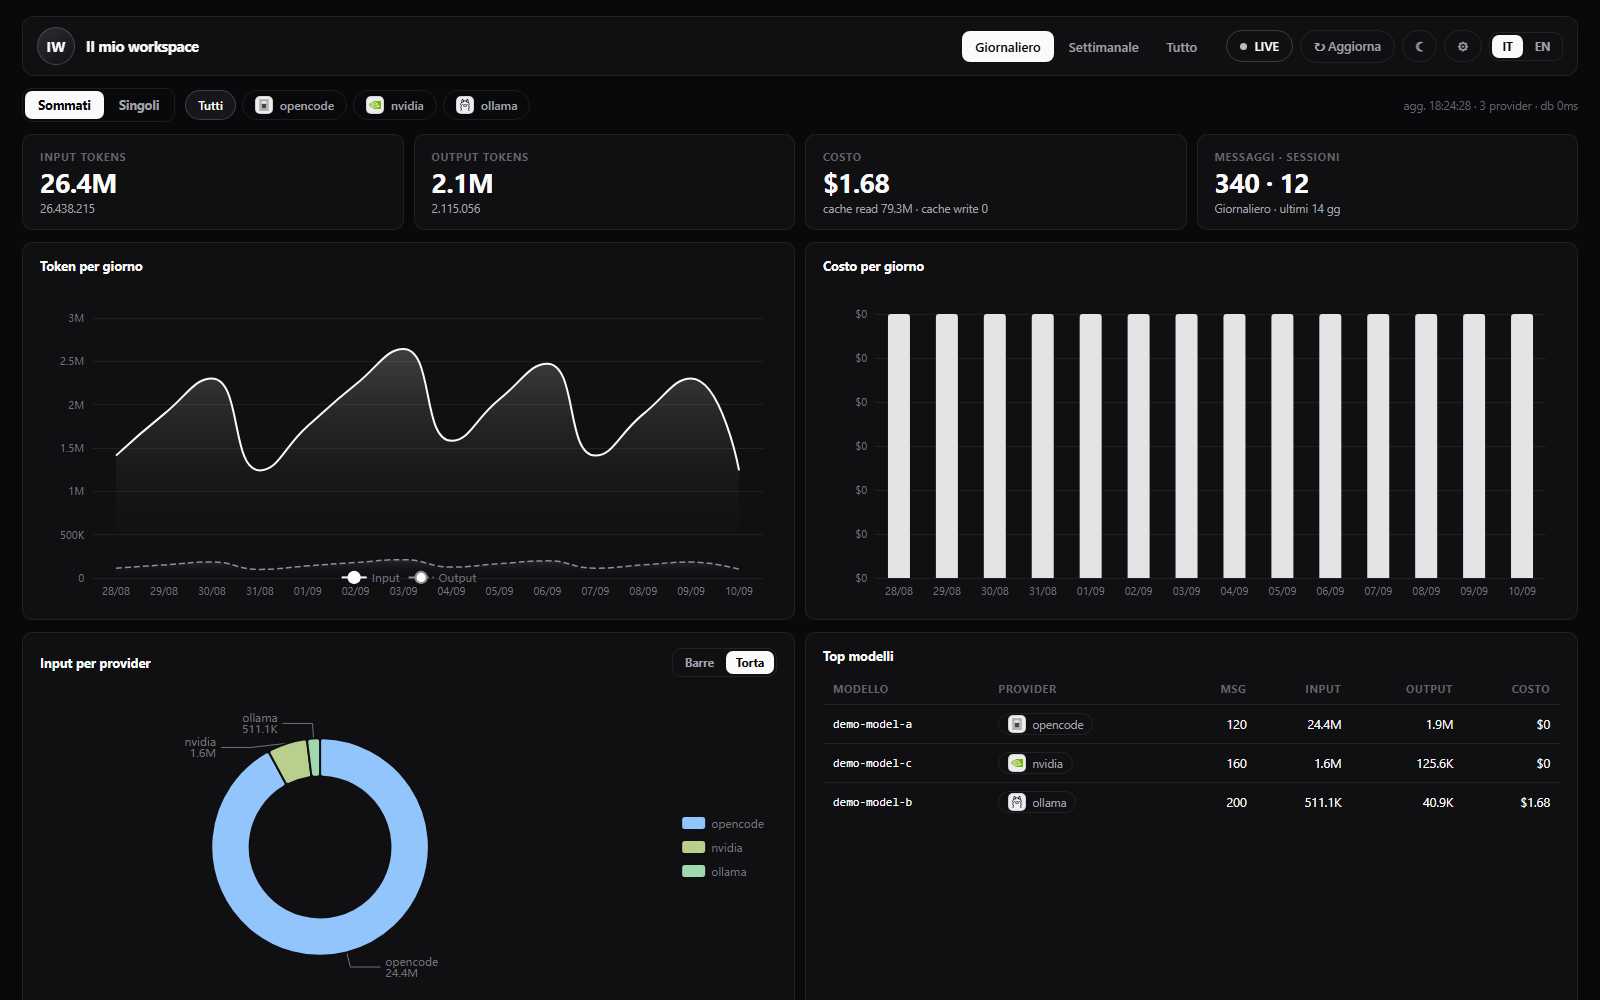
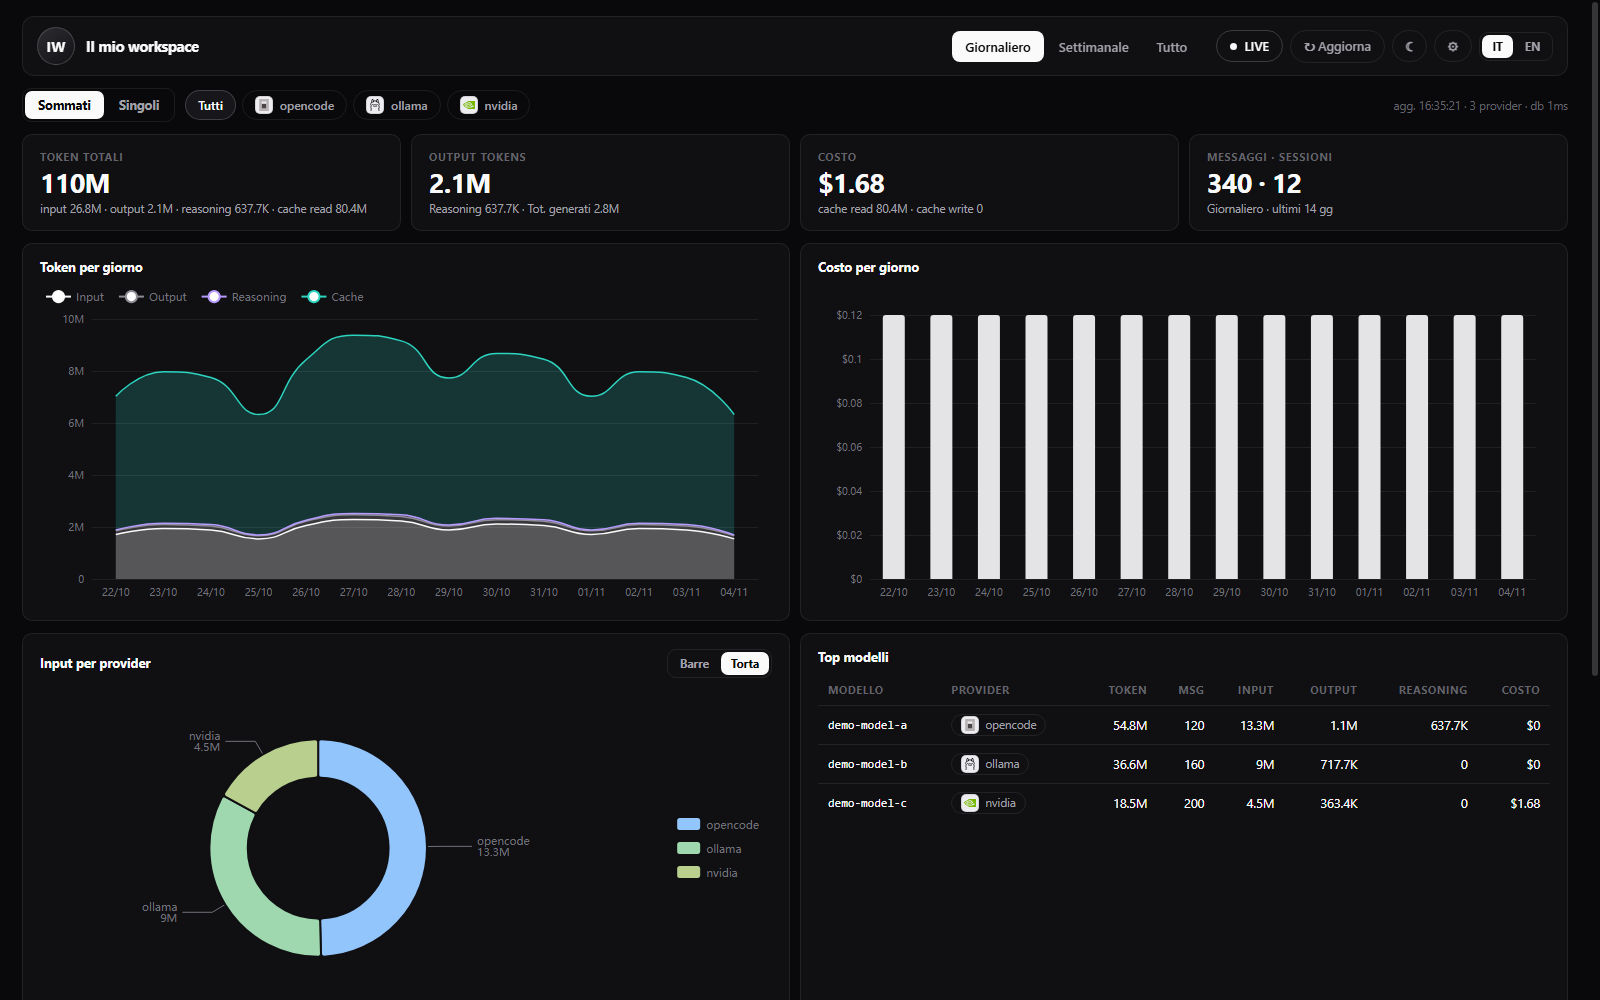
docs: refresh screenshots for v0.1.13 and fix KPI breakdown wrapping

diff --git a/src/App.tsx b/src/App.tsx
@@ -1369,9 +1369,14 @@ export default function App() {
               : "—"}
           </strong>
           <span className="kpi-sub kpi-sub-wrap">
-            {totals
-              ? `${S["kpi.inputShort"]} ${fmtCompact(totals.input)} · ${S["kpi.outputShort"]} ${fmtCompact(totals.output)} · ${S["kpi.reasoningShort"]} ${fmtCompact(totals.reasoning)} · ${S["kpi.cacheRead"]} ${fmtCompact(totals.cacheRead)}`
-              : ""}
+            {totals ? (
+              <>
+                <span className="kpi-part">{S["kpi.inputShort"]} {fmtCompact(totals.input)}</span>
+                <span className="kpi-part">{S["kpi.outputShort"]} {fmtCompact(totals.output)}</span>
+                <span className="kpi-part">{S["kpi.reasoningShort"]} {fmtCompact(totals.reasoning)}</span>
+                <span className="kpi-part">{S["kpi.cacheRead"]} {fmtCompact(totals.cacheRead)}</span>
+              </>
+            ) : ""}
           </span>
         </div>
         <div className="kpi">

diff --git a/src/App.css b/src/App.css
@@ -858,6 +858,15 @@ input:focus-visible {
   line-height: 1.35;
 }
 
+/* Keep "cache read 20.7B" together when the breakdown wraps. */
+.kpi-part {
+  white-space: nowrap;
+}
+
+.kpi-part + .kpi-part::before {
+  content: " · ";
+}
+
 /* ——— Boot loader ——— */
 .boot {
   min-height: 100vh;

diff --git a/README.md b/README.md
@@ -24,7 +24,7 @@ Lightweight desktop dashboard for your OpenCode usage — tokens, costs, charts.
 
 | | |
 |---|---|
-| 📊 | Input/output tokens, cost, cache — daily, weekly, all-time |
+| 📊 | Total tokens (input, output, reasoning, cache) matching `opencode stats` — daily, weekly, all-time |
 | 📈 | Line, bar & donut charts, top models, recent sessions, reasoning tokens |
 | 🎛 | Per-provider filters, Combined / Split views, brand icons |
 | 👤 | Customizable profile (photo, name, bio), activity heatmap, light/dark theme |
@@ -168,7 +168,7 @@ grafici e tabelle, profilo personalizzabile, interfaccia EN/IT.
 
 | | |
 |---|---|
-| 📊 | Token input/output, costi, cache — giornaliero, settimanale, tutto |
+| 📊 | Token totali (input, output, reasoning, cache) come `opencode stats` — giornaliero, settimanale, tutto |
 | 📈 | Grafici linee, barre e torta, top modelli, sessioni recenti, reasoning |
 | 🎛 | Filtri per provider, viste Sommati / Singoli, loghi brand |
 | 👤 | Profilo personalizzabile (foto, nome, bio), heatmap attività, tema chiaro/scuro |
